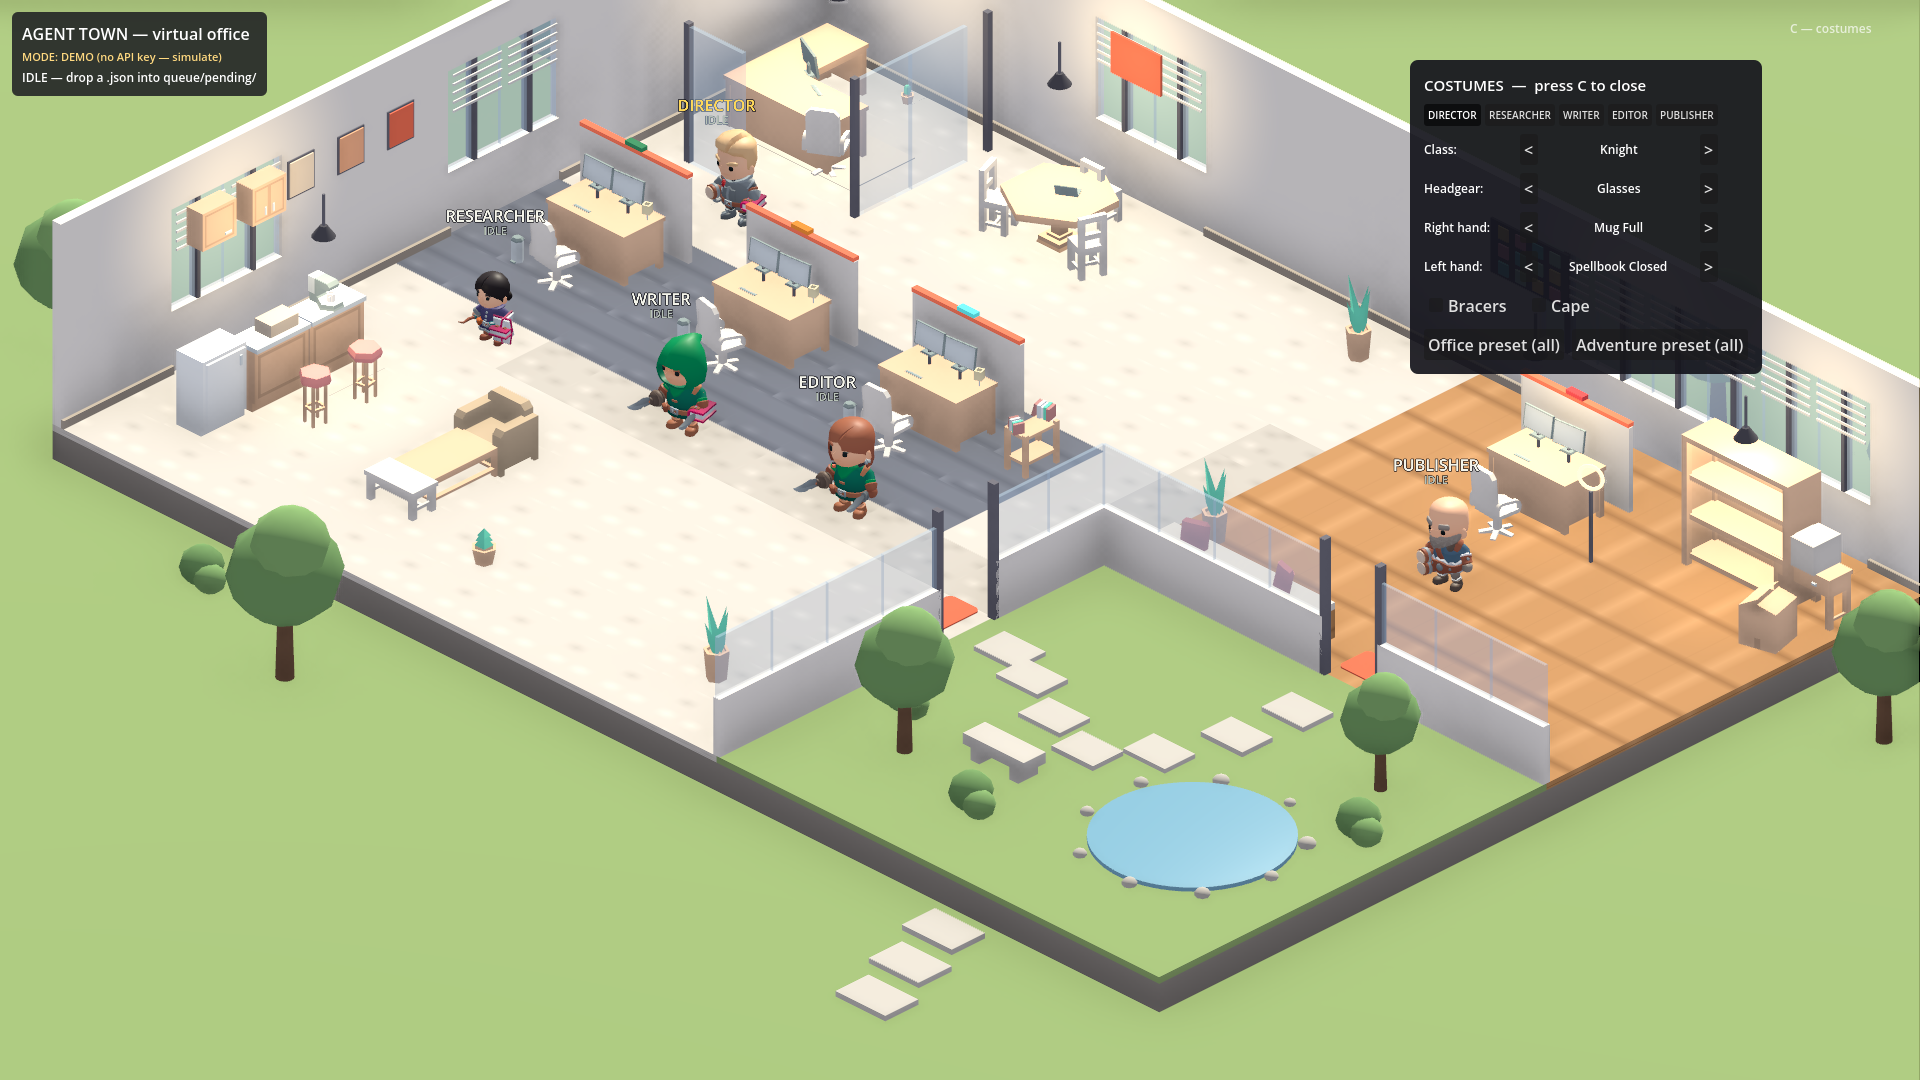
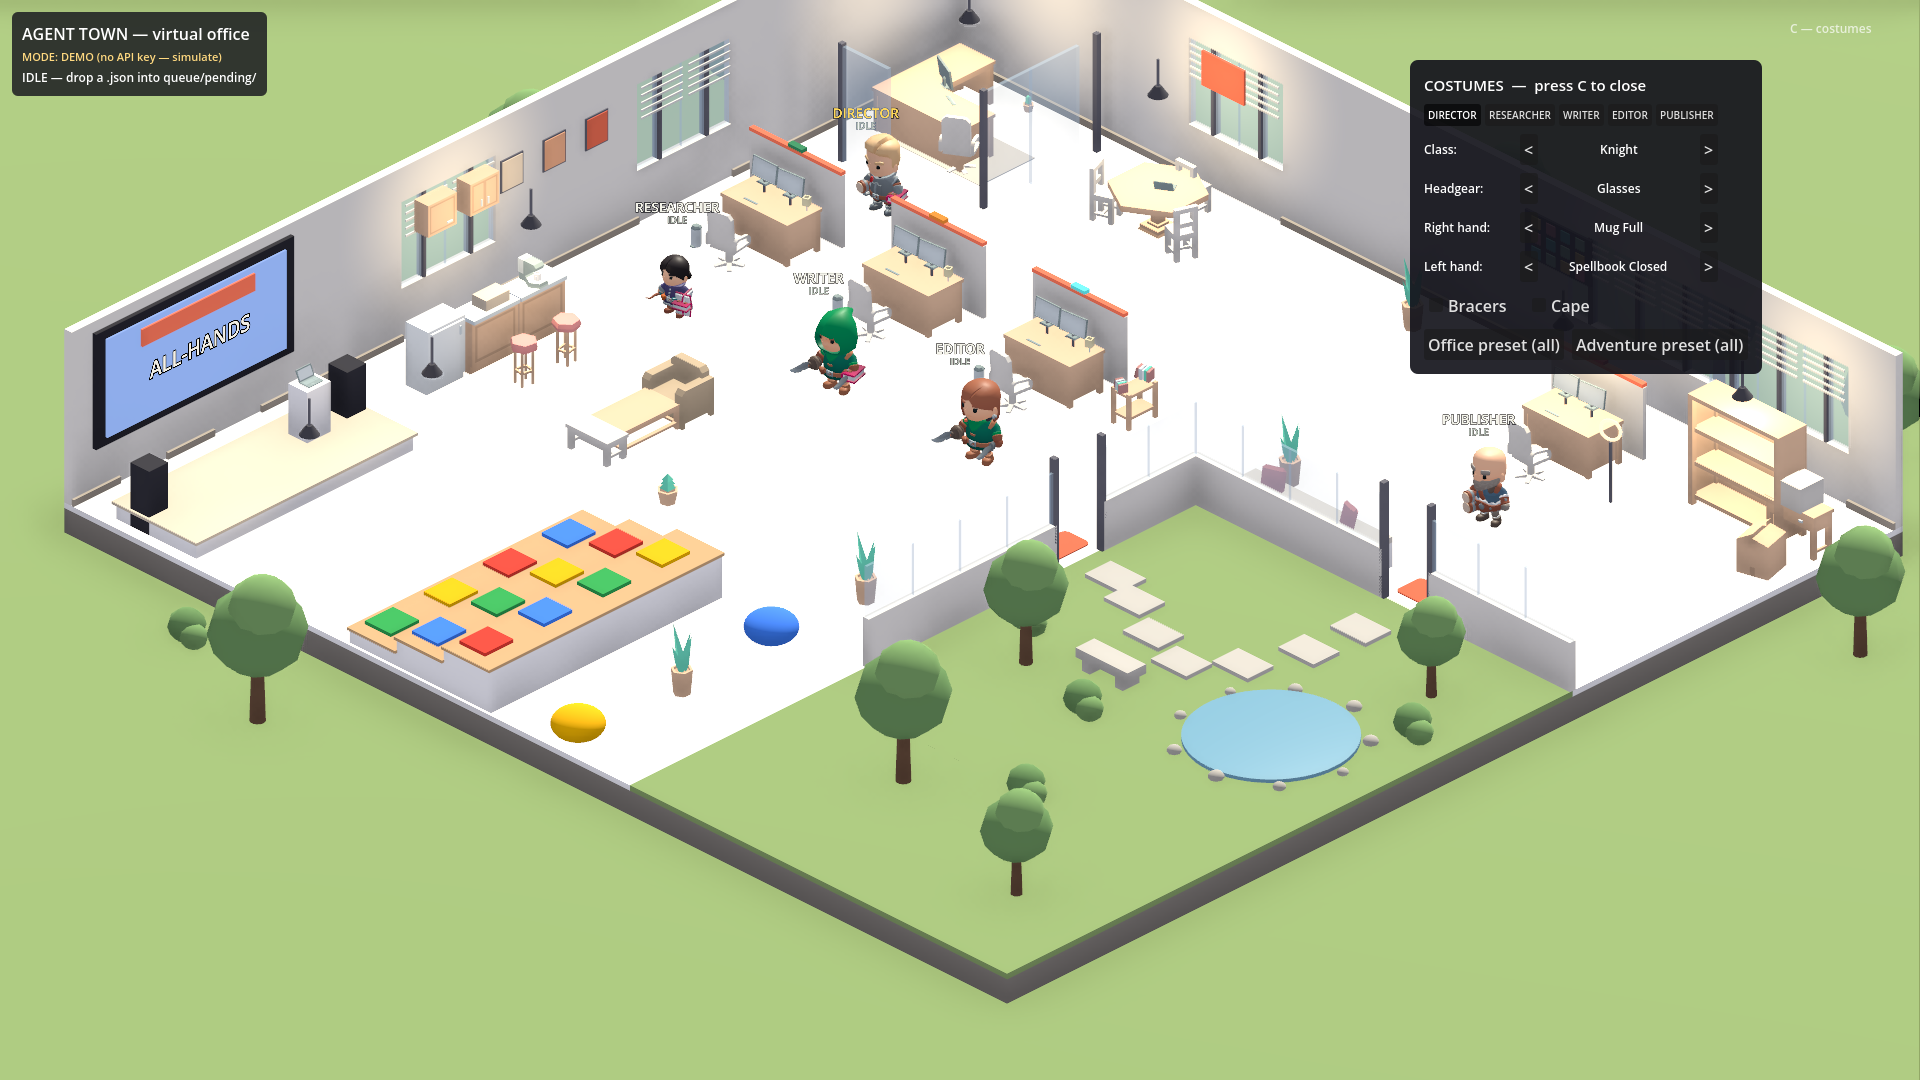
Town hall: Google-style all-hands space + gathering behavior
Researched office town-hall/amphitheater design (fixed stage at one end,
big AV screen backdrop, tiered bleachers with clear sightlines, open
agora floor, casual rear seating) and applied its proportions: of the
hall depth, stage ~20%, open floor ~25%, tiered seating ~55%.

- New south hall (11x5): stage + podium + speakers, ALL-HANDS screen
  with coral trim on the west wall, 3 wooden bleacher tiers with
  Google-colored cushions, beanbags, pendants
- Map grows 20x14 -> 20x19; courtyard lawn extends south with more trees
- Agents GATHER: on every completed reel package the whole crew walks to
  the town hall, faces the stage and Cheers, then disperses

diff --git a/tools/generate_assets.py b/tools/generate_assets.py
@@ -95,6 +95,11 @@ MAP_ROWS = [
     "V...................",
     "v...................",
     "v...................",
+    "v...................",
+    "V...................",
+    "v...................",
+    "V...................",
+    "v...................",
 ]
 
 BUILDINGS = {